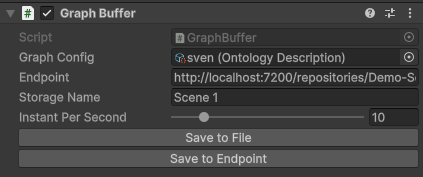
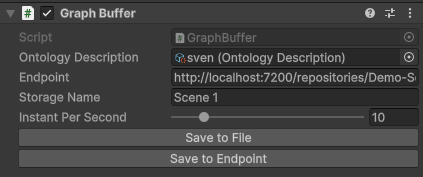
update readme

Changed region(s): [[0.0615, 0.2825, 0.3381, 0.3672]]

diff --git a/Assets/com.nsaintl.sven/Runtime/Scripts/GraphManagement/GraphBuffer.cs b/Assets/com.nsaintl.sven/Runtime/Scripts/GraphManagement/GraphBuffer.cs
@@ -31,7 +31,7 @@ namespace Sven.GraphManagement
         /// <summary>
         /// Flag to check if the graph has a configuration.
         /// </summary>
-        protected bool HasGraphConfig => graphConfig != null;
+        protected bool HasGraphConfig => ontologyDescription != null;
 
         #endregion
 
@@ -40,7 +40,7 @@ namespace Sven.GraphManagement
         /// <summary>
         /// Name of the graph.
         /// </summary>
-        public string GraphName => graphConfig?.Name ?? "";
+        public string GraphName => ontologyDescription?.Name ?? "";
 
         /// <summary>
         /// Endpoint to send the RDF data.
@@ -198,13 +198,13 @@ namespace Sven.GraphManagement
         public Graph CreateNewGraph()
         {
             Graph schema = new();
-            string content = graphConfig.OntologyContent;
+            string content = ontologyDescription.OntologyContent;
             if (!string.IsNullOrEmpty(content))
             {
                 TurtleParser turtleParser = new();
                 turtleParser.Load(schema, new StringReader(content));
             }
-            return CreateNewGraph(graphConfig.BaseUri, graphConfig.Namespaces, schema);
+            return CreateNewGraph(ontologyDescription.BaseUri, ontologyDescription.Namespaces, schema);
         }
 
         #endregion

diff --git a/Assets/com.nsaintl.sven/Runtime/Scripts/GraphManagement/GraphReader.cs b/Assets/com.nsaintl.sven/Runtime/Scripts/GraphManagement/GraphReader.cs
@@ -367,16 +367,16 @@ namespace Sven.GraphManagement
         private void Awake()
         {
             _gameHasStarted = true;
-            if (graphConfig != null)
+            if (ontologyDescription != null)
             {
                 schema = new Graph();
-                string content = graphConfig.OntologyContent;
+                string content = ontologyDescription.OntologyContent;
                 if (!string.IsNullOrEmpty(content))
                 {
                     TurtleParser turtleParser = new();
                     turtleParser.Load(schema, new StringReader(content));
                 }
-                CreateNewGraph(graphConfig.BaseUri, graphConfig.Namespaces, schema);
+                CreateNewGraph(ontologyDescription.BaseUri, ontologyDescription.Namespaces, schema);
             }
             if (IsRemote) LoadFromEndpoint();
         }

diff --git a/Assets/com.nsaintl.sven/Runtime/Scripts/GraphManagement/GraphBehaviour.cs b/Assets/com.nsaintl.sven/Runtime/Scripts/GraphManagement/GraphBehaviour.cs
@@ -39,7 +39,7 @@ namespace Sven.GraphManagement
         /// Graph configuration.
         /// </summary>
         [SerializeField, HideIf("IsStarted")]
-        protected OntologyDescription graphConfig;
+        protected OntologyDescription ontologyDescription;
 
         #endregion
 

diff --git a/README.md b/README.md
@@ -52,45 +52,54 @@ This project is developed as part of a PhD thesis at the LISN laboratory of the 
 
 Pour créer un environnement virtuel semantisé, il suffit de suivre les étapes suivantes :
 
-1. Ajouter dans votre scène un composant **GraphBuffer** (GameObject > SVEN > GraphBuffer) qui permet de stocker les données de votre environnement virtuel sous forme de graphe de connaissance et de les envoyer à un serveur distant (ou un fichier local) pour pouvoir l'analyser ou le rejouer plus tard.
+1. Ajouter dans votre scène un composant **GraphBuffer** (GameObject > Semantic > GraphBuffer) qui permet de stocker les données de votre environnement virtuel sous forme de graphe de connaissance et de les envoyer à un serveur distant (ou un fichier local) pour pouvoir l'analyser ou le rejouer plus tard.
 
 ![Instantiate GraphBuffer](./Assets/com.nsaintl.sven/Documentation~/instantiate_graphbuffer.png)
 
-2.
+2. Configurer le composant **GraphBuffer** en fonction de vos besoins :
+
+| Propriété                | Description                                                                                                                           |
+| ------------------------ | ------------------------------------------------------------------------------------------------------------------------------------- |
+| **Endpoint**             | L'URL du serveur distant où les données seront envoyées (ou le chemin du fichier local où les données seront sauvegardées)            |
+| **Storage Name**         | Le nom du graphe de connaissance qui sera créé sur le serveur distant (ou le nom du fichier local où les données seront sauvegardées) |
+| **Instant Per Second**   | La fréquence à laquelle les données de l'environnement virtuel seront vérifiées et sauvegardées dans le graphe de connaissance        |
+| **Ontology Description** | La description de l'ontologie utilisée pour décrire les données de l'environnement virtuel                                            |
 
 ![GraphBuffer](./Assets/com.nsaintl.sven/Documentation~/graphbuffer.png)
 
+3. Créer dans votre projet une ressource **OntologyDescription** (Create > Semantic > OntologyDescription) qui décrit permet de décrire la configuration de l'ontologie utilisée pour décrire les données de l'environnement virtuel.
+
 ![Instantiate OntologyDescription](./Assets/com.nsaintl.sven/Documentation~/instantiate_ontologydescription.png)
+
+4. Configurer la ressource **OntologyDescription** en fonction de vos besoins :
+
+| Propriété         | Description                                                                                                                |
+| ----------------- | -------------------------------------------------------------------------------------------------------------------------- |
+| **Name**          | Nom de l'ontologie utilisée pour décrire les données de l'environnement virtuel                                            |
+| **Base Uri**      | L'URI de base utilisée pour décrire les données de l'environnement virtuel                                                 |
+| **Namespaces**    | Les espaces de noms utilisés pour décrire les données de l'environnement virtuel                                           |
+| **Ontology File** | Le fichier **_.ttl_** contenant la description de l'ontologie utilisée pour décrire les données de l'environnement virtuel |
+
 ![OntologyDescription](./Assets/com.nsaintl.sven/Documentation~/ontologydescription.png)
 
+5. Ajouter à chaque objet que vous souhaitez semantiser un composant **SemantizationCore** (GameObject > Semantic > SemantizationCore) qui permet de scanner les composants, vous permettant de choisir les propriétés à observer et à modifier. Vous pouvez également choisir si le composant doit être observé dynamiquement ou s'il est considéré comme statique et sémantisé uniquement à sa création.
+
 ![Semantization Core](./Assets/com.nsaintl.sven/Documentation~/semantizationcore.png)
+
+6. Votre scène est maintenant prête à être semantisée. Vous pouvez maintenant lancer votre application et observer les données de votre environnement virtuel être sauvegardées dans le graphe de connaissance à la fin de votre expérience.
+
+Les fichiers **_.ttl_** sont sauvegardés dans le dossier **SVENs** à la racine de votre projet.
+
+## Replay your Semantize Virtual ENvironment (SVEN) _(read your knowledge graph)_
 
 ![GraphReader Remote](./Assets/com.nsaintl.sven/Documentation~/graphreader_remote.png)
 ![GraphReader Local](./Assets/com.nsaintl.sven/Documentation~/graphreader_local.png)
 
 ![Reader Scene](./Assets/com.nsaintl.sven/Documentation~/reader_scene.png)
 
-// explication du graph buffer et de toute ses propriétés (référencé au différentes sections ci-dessous enfonction de local/remote)
-
-// explication du SemantizationCore, du fait qu'il scan les composants et les propriétés, et que l'on peut ajouter/supprimer des composants à la volée
-
-// parler du tradeoff entre la quantité de propriété observer et la fréquence de sémantisations
-
 ### Local
 
-// dire que ça sauvegarde un fichier .ttl dans un dossier spécifique du projet
-
-### Remote
-
-// dire que ça envoie les données sur un serveur distant configurer dans le graphbuffer
-
-## Replay your Semantize Virtual ENvironment (SVEN) _(read your knowledge graph)_
-
-// lancer la scene **Scene Reader**
-
-### Local
-
-// toucher au composant **GraphReader** mettre en local -> charger un fichier .ttl
+// toucher au composant **GraphReader** mettre en local -> charger un fichier **_.ttl_**
 
 ### Remote
 
@@ -108,10 +117,3 @@ MapppedComponents.AddComponentDescription(typeof(Atom), new("Atom",
 ```
 
 This code snippet maps the `Atom` component to its properties, allowing SVEN to semantize and interact with it properly. It also enables custom getters and setters for observing their properties. Make sure to call this at the beginning of the scene to ensure everything works correctly.
-
-<style>
-img {
-    display: block;
-    margin: auto;
-}
-</style>
